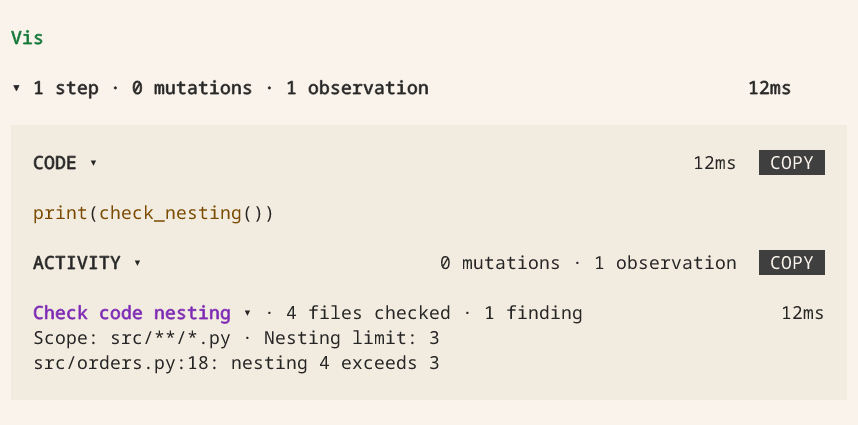
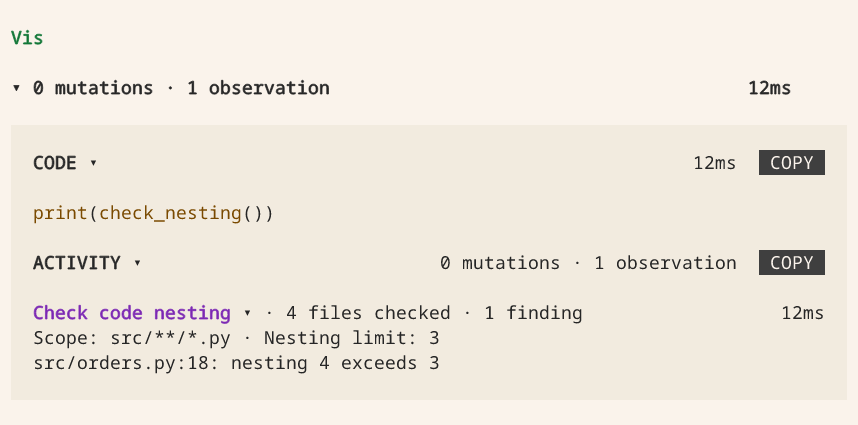
feat(ui): drop the step count from the digest row
A step count says nothing about the work. The row now starts with the
Activity counts, in the same words as the Activity summary.

Vis-Session: 407c31ee-0007-47b8-99b3-9c15284cdeb1

Changed region(s): [[0.0303, 0.1835, 0.5152, 0.2447]]

diff --git a/apps/vis-companion/src/components/ChatContent.test.tsx b/apps/vis-companion/src/components/ChatContent.test.tsx
@@ -1306,7 +1306,7 @@ describe('a Python evaluation without detected Activity', () => {
       const digest = painted.container.querySelector<HTMLElement>('[data-step-digest]')!;
       expect(digest).toHaveAttribute(
         'aria-label',
-        `Expand steps: 1 step · 0 mutations · 1 ${state}`,
+        `Expand steps: 0 mutations · 1 ${state}`,
       );
       expect(digest).toHaveClass('text-err-ink!');
       expect(digest.querySelector('.text-err-ink')).toHaveTextContent(`1 ${state}`);
@@ -2506,9 +2506,12 @@ describe('steps between progress notes', () => {
     const [first, second] = digests(painted.container);
     const noted = painted.getByText(note);
     expect(digests(painted.container).map((row) => row.getAttribute('aria-label'))).toEqual([
-      'Expand steps: 2 steps · 0 mutations',
-      'Expand steps: 1 step · 0 mutations',
+      'Expand steps: 0 mutations',
+      'Expand steps: 0 mutations',
     ]);
+    // Regression, user report: the row names what the calls did, not how many steps ran.
+    const counted = digests(painted.container).map((row) => row.textContent);
+    expect(counted.filter((text) => /\bsteps?\b/.test(text ?? ''))).toEqual([]);
     // The measured time of the steps stands on the right of each row.
     expect(digests(painted.container).map((row) => row.nextElementSibling?.textContent)).toEqual([
       '20ms',
@@ -2531,7 +2534,7 @@ describe('steps between progress notes', () => {
     const [first, second] = digests(painted.container);
     expect(first).toHaveAttribute(
       'aria-label',
-      'Expand steps: 2 steps · 0 mutations · 1 observation',
+      'Expand steps: 0 mutations · 1 observation',
     );
     fireEvent.click(first);
     const [band] = painted.container.querySelectorAll('.bg-thinking-surface');
@@ -2539,7 +2542,7 @@ describe('steps between progress notes', () => {
     expect(first).toHaveAttribute('aria-expanded', 'true');
     expect(first).toHaveAttribute(
       'aria-label',
-      'Collapse steps: 2 steps · 0 mutations · 1 observation',
+      'Collapse steps: 0 mutations · 1 observation',
     );
     expect(second).toHaveAttribute('aria-expanded', 'false');
     expect(bands(painted.container)).toEqual([['Read the sources first.', 'One more source.']]);

diff --git a/apps/vis-companion/src/components/ChatContent.tsx b/apps/vis-companion/src/components/ChatContent.tsx
@@ -2672,23 +2672,22 @@ function sameTraceSegment(a: TraceSegmentProps, b: TraceSegmentProps): boolean {
 }
 
 /**
- * THE ROW THAT STANDS FOR THE STEPS UNDER A NOTE. It counts the steps, then what their calls
- * did (`activityCostParts`), then the calls that are running, failed or cancelled. It shows
- * their measured time on the right. A failure colors the chevron. A stop is a failure too,
- * so a cancelled call or an interrupted step also colors it. A closed row ends its counts
- * with `· live`, the live control of its steps. Opening the row shows the thinking, code
- * and Activity of the steps. Mirrors the TUI (`render/step-digest-entries`).
+ * THE ROW THAT STANDS FOR THE STEPS UNDER A NOTE. It names what their calls did, in the words
+ * of Activity (`activityCostParts`), not how many steps ran. Then it counts the calls that are
+ * running, failed or cancelled, and it shows their measured time on the right. A failure
+ * colors the chevron. A stop is a failure too, so a cancelled call or an interrupted step also
+ * colors it. A closed row ends its counts with `· live`, the live control of its steps.
+ * Opening the row shows the thinking, code and Activity of the steps. Mirrors the TUI
+ * (`render/step-digest-entries`).
  */
 function StepDigest({
   chunks,
-  steps,
   live,
   isOpen,
   onToggle,
   children,
 }: {
   chunks: Chunk[];
-  steps: number;
   live: boolean;
   isOpen: boolean;
   onToggle: () => void;
@@ -2698,7 +2697,6 @@ function StepDigest({
   const forms = chunks.flatMap((chunk) => (chunk.kind === 'code' ? chunk.forms : chunk.cards));
   const activity = mergeActivity(forms.flatMap((form) => formActivity(form, live) ?? []));
   const parts = [
-    { text: `${steps} ${steps === 1 ? 'step' : 'steps'}`, tone: '' },
     ...activityCostParts(activity),
     ...(['running', 'failed', 'cancelled'] as const).flatMap((state) =>
       activity.counts[state]
@@ -2912,7 +2910,6 @@ const TraceSegment = memo(function TraceSegment({
       {digest && (
         <StepDigest
           chunks={chunks}
-          steps={segment.items.length}
           live={live}
           isOpen={open}
           onToggle={() => setOpen((value) => !value)}

diff --git a/resources/vis-docs/sessions.md b/resources/vis-docs/sessions.md
@@ -49,7 +49,7 @@ waits in a queue. You can also cancel the running turn or quit the session.
 ### Follow progress
 
 Vis adds short notes while it works. Under each note, one digest row gives a summary of the steps after the note.
-The row shows the number of steps and what their calls did, for example `2 steps · 1 mutation · 3 observations`.
+The row shows what their calls did, for example `1 mutation · 3 observations`.
 It also shows any running, failed or cancelled calls and the time that the steps took.
 When you stop a turn, the stopped step counts as a failure, so the row turns red.
 
@@ -60,7 +60,7 @@ The mutation count always shows, also when it is 0, so you can see at once if th
 Open the digest to see the thinking, code and Activity of these steps. Failures, files and images stay visible when the digest is closed.
 The Interrupted message of a stopped step shows only in the open digest.
 
-When the steps open live views, a closed row ends its counts with **live**, for example `2 steps · 1 running · live`. Select **live** to open the newest running live view, or else the newest recording.
+When the steps open live views, a closed row ends its counts with **live**, for example `1 mutation · 1 running · live`. Select **live** to open the newest running live view, or else the newest recording.
 
 To see each step as a separate Activity, turn off **Compact mode** in Settings, under **Responses**.
 The terminal and each app keep their own choice.
